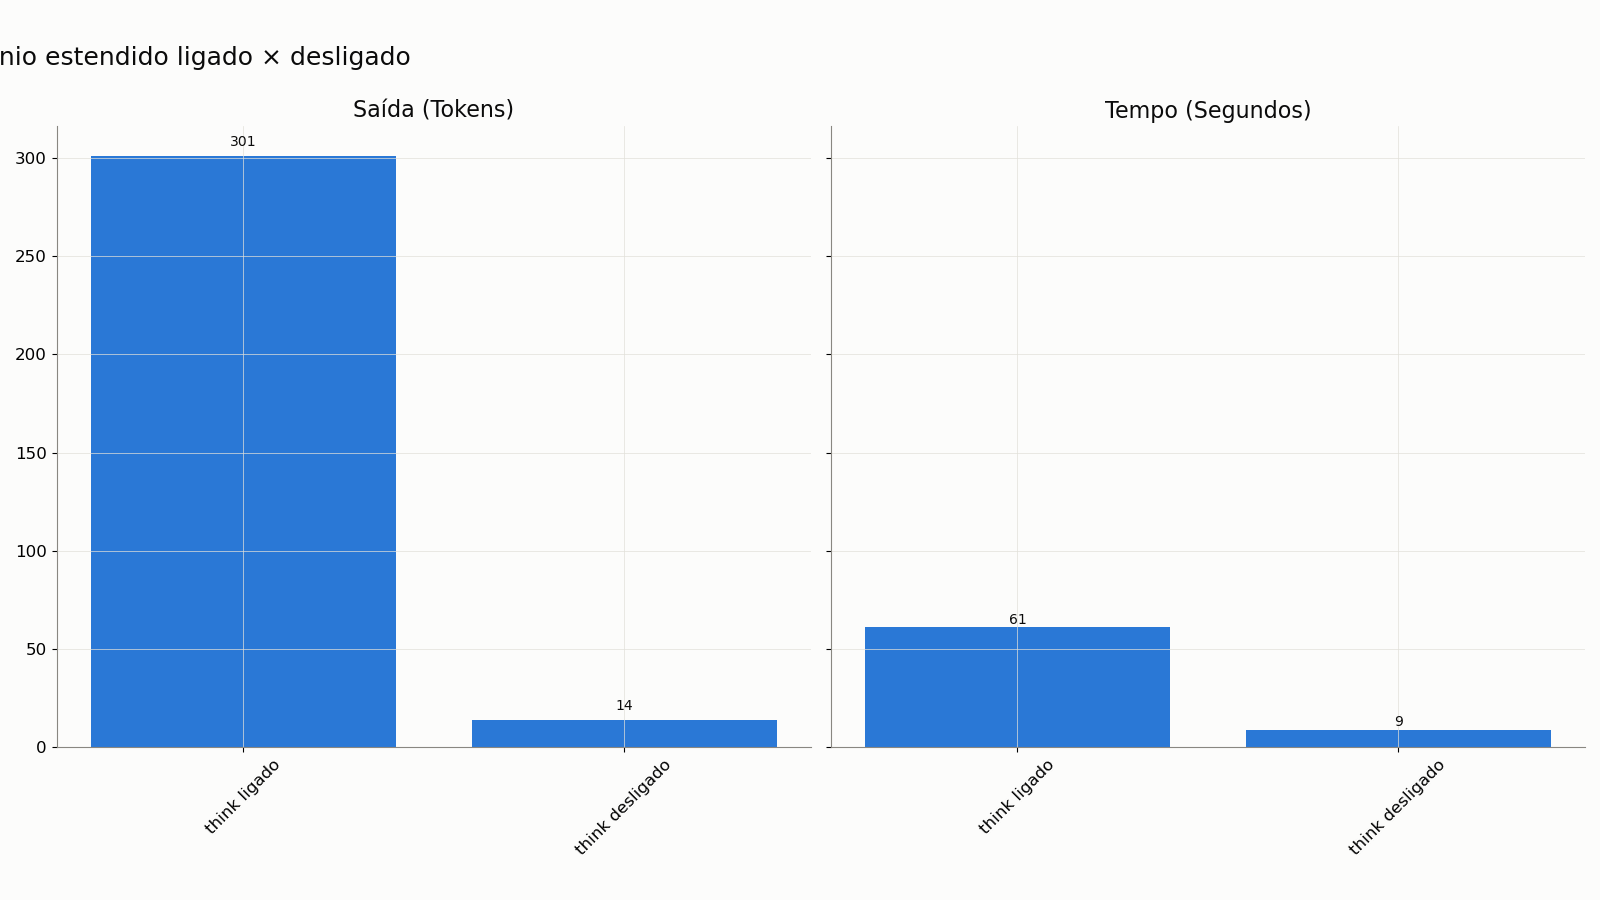
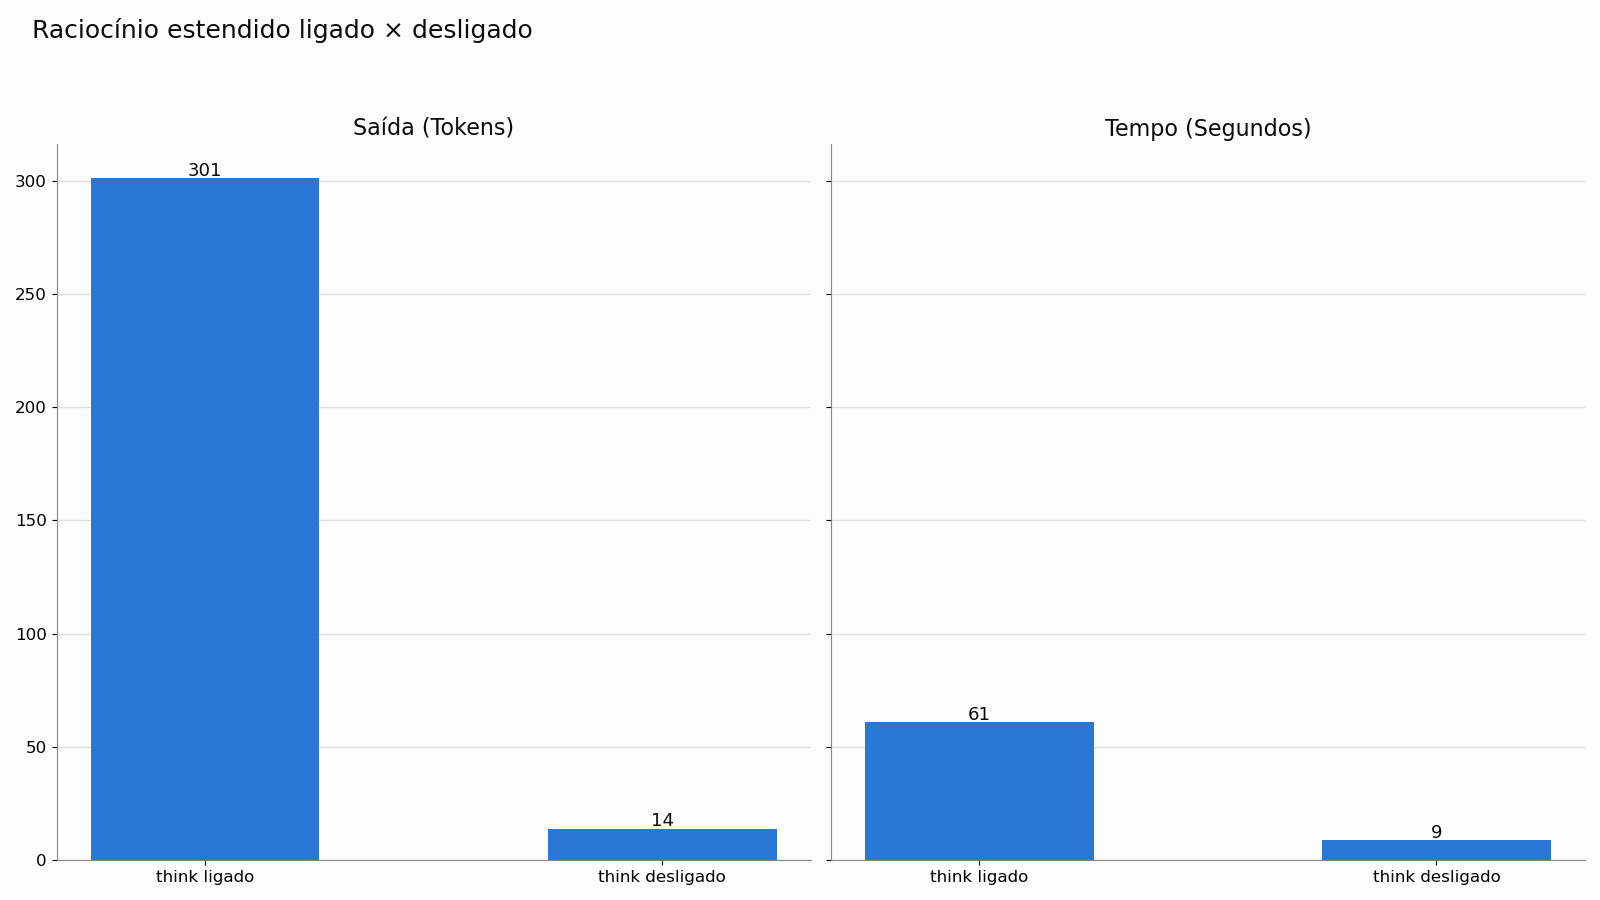
docs(study): polished charts (Alice E-02), lessons LI-009/010, study data update

diff --git a/docs/estudo/graficos.py b/docs/estudo/graficos.py
@@ -17,7 +17,7 @@ plt.rcParams.update({
     "axes.grid": True,
     "grid.color": "#e1e0d9",
     "grid.linestyle": "-",
-    "grid.linewidth": 0.5,
+    "grid.linewidth": 1,
     "text.color": "#0b0b0b",
     "axes.titlesize": 16,
     "axes.labelsize": 14,
@@ -30,8 +30,8 @@ def format_thousands(x, pos):
     return f"{x:,.0f}".replace(",", ".")
 
 def save_plot(filename):
-    plt.tight_layout()
-    plt.savefig(OUTPUT_DIR / filename)
+    plt.tight_layout(rect=[0, 0, 1, 0.93])
+    plt.savefig(OUTPUT_DIR / filename, bbox_inches="tight", pad_inches=0.3)
     plt.close()
 
 def main():
@@ -41,121 +41,141 @@ def main():
     # 01-toy-antes-depois.png
     plt.figure()
     ax = plt.gca()
+    ax.set_axisbelow(True)
     toys = data["toy"]
     y_pos = range(len(toys))
-    
+
     # Horizontal stacked bars
     # entrada (blue) + saida (orange)
     for i, toy in enumerate(toys):
         entrada = toy["entrada"]
         saida = toy["saida"]
         total = entrada + saida
-        
-        ax.barh(i, entrada, color="#2a78d6", label="Entrada" if i == 0 else "", edgecolor="white", linewidth=2)
-        ax.barh(i, saida, left=entrada, color="#eb6834", label="Saída" if i == 0 else "", edgecolor="white", linewidth=2)
-        
+
+        ax.barh(i, entrada, height=0.5, color="#2a78d6", label="Entrada" if i == 0 else "", edgecolor="white", linewidth=2)
+        ax.barh(i, saida, left=entrada, height=0.5, color="#eb6834", label="Saída" if i == 0 else "", edgecolor="white", linewidth=2)
+
         # Total label at the end
-        ax.text(total + 5000, i, f"{total:,.0f}".replace(",", "."), va="center", fontweight="bold")
+        max_val = max([t["entrada"] + t["saida"] for t in toys])
+        ax.text(total + (0.01 * max_val), i, f"{total:,.0f}".replace(",", "."), va="center", fontweight="bold", fontsize=13, color="#0b0b0b")
 
     ax.set_yticks(y_pos)
     ax.set_yticklabels([t["rotulo"] for t in toys])
     ax.invert_yaxis()  # Top to bottom
     ax.set_title("Mesma tarefa, três versões: tokens da Alice", loc="left")
-    ax.legend(loc="lower right")
+    ax.legend(loc="lower right", fontsize=13, frameon=False)
     ax.xaxis.set_major_formatter(FuncFormatter(format_thousands))
+    ax.set_xlim(0, 1.3 * max_val)
     ax.spines["top"].set_visible(False)
     ax.spines["right"].set_visible(False)
+    # Gridlines only along the value axis (x)
+    ax.xaxis.grid(True)
+    ax.yaxis.grid(False)
     save_plot("01-toy-antes-depois.png")
 
     # 02-think.png
     fig, (ax1, ax2) = plt.subplots(1, 2, figsize=(16, 9), dpi=100, sharey=True)
     fig.patch.set_facecolor("#fcfcfb")
-    
+
     think_data = data["think"]
     modos = [t["modo"] for t in think_data]
     saidas = [t["saida"] for t in think_data]
     segundos = [t["segundos"] for t in think_data]
-    
+
     x_pos = range(len(modos))
-    
+
     # Left: saida tokens
-    ax1.bar(x_pos, saidas, color="#2a78d6")
+    ax1.bar(x_pos, saidas, color="#2a78d6", width=0.5)
     ax1.set_title("Saída (Tokens)")
     ax1.set_xticks(x_pos)
-    ax1.set_xticklabels(modos, rotation=45)
+    ax1.set_xticklabels(modos, rotation=0)
     for i, v in enumerate(saidas):
-        ax1.text(i, v + 5, f"{v}", ha="center")
-        
+        ax1.text(i, v + 1, f"{v}", ha="center", fontsize=13, color="#0b0b0b")
+
     # Right: segundos
-    ax2.bar(x_pos, segundos, color="#2a78d6")
+    ax2.bar(x_pos, segundos, color="#2a78d6", width=0.5)
     ax2.set_title("Tempo (Segundos)")
     ax2.set_xticks(x_pos)
-    ax2.set_xticklabels(modos, rotation=45)
+    ax2.set_xticklabels(modos, rotation=0)
     for i, v in enumerate(segundos):
-        ax2.text(i, v + 2, f"{v}", ha="center")
+        ax2.text(i, v + 1, f"{v}", ha="center", fontsize=13, color="#0b0b0b")
 
     for ax in [ax1, ax2]:
+        ax.set_axisbelow(True)
         ax.set_facecolor("#fcfcfb")
         ax.spines["top"].set_visible(False)
         ax.spines["right"].set_visible(False)
-    
-    fig.suptitle("Raciocínio estendido ligado × desligado", fontsize=18, x=0.1, y=0.95)
-    plt.tight_layout(rect=[0, 0.03, 1, 0.95])
+        ax.xaxis.grid(False)
+        ax.yaxis.grid(True)
+
+    fig.suptitle("Raciocínio estendido ligado × desligado", fontsize=18, x=0.02, ha="left")
+    plt.tight_layout(rect=[0, 0, 1, 0.93])
     plt.savefig(OUTPUT_DIR / "02-think.png")
     plt.close()
 
     # 03-tarefas.png
     plt.figure()
     ax = plt.gca()
+    ax.set_axisbelow(True)
     tarefas = data["tarefas"]
     y_pos = range(len(tarefas))
-    
+
+    max_entrada = max([t["entrada"] for t in tarefas])
+
     for i, t in enumerate(tarefas):
         entrada = t["entrada"]
         status = t["status"]
         tentativas = t["tentativas"]
-        
-        ax.barh(i, entrada, color="#2a78d6")
-        
+
+        ax.barh(i, entrada, height=0.5, color="#2a78d6")
+
         if status == "done":
-            label = f" · {tentativas} · ✓"
+            label = f" · {tentativas} {'tentativa' if tentativas == 1 else 'tentativas'} · ✓"
         else:
-            label = f" · ✗ (falso positivo)"
-            
-        ax.text(entrada + 5000, i, f"{entrada:,.0f}".replace(",", ".") + label, va="center")
+            label = f" · ✗ falso positivo"
+
+        ax.text(entrada + (0.01 * max_entrada), i, f"{entrada:,.0f}".replace(",", ".") + label, va="center", fontsize=13, color="#0b0b0b")
 
     ax.set_yticks(y_pos)
     ax.set_yticklabels([f"{t['id']} · {t['o_que']}" for t in tarefas])
     ax.invert_yaxis()
     ax.set_title("Tokens de entrada por tarefa (cresce com o histórico)", loc="left")
     ax.xaxis.set_major_formatter(FuncFormatter(format_thousands))
+    ax.set_xlim(0, 1.3 * max_entrada)
     ax.spines["top"].set_visible(False)
     ax.spines["right"].set_visible(False)
+    ax.xaxis.grid(True)
+    ax.yaxis.grid(False)
     save_plot("03-tarefas.png")
 
     # 04-divisao-tokens.png
     plt.figure()
     ax = plt.gca()
+    ax.set_axisbelow(True)
     div = data["divisao_v1"]
-    
+
     labels = ['Claude (estimado)', 'Alice · entrada', 'Alice · saída']
     values = [div["claude_estimado"], div["alice_entrada"], div["alice_saida"]]
     colors = ["#eb6834", "#2a78d6", "#2a78d6"]
-    
+
     y_pos = range(len(labels))
-    ax.barh(y_pos, values, color=colors)
-    
+    ax.barh(y_pos, values, height=0.5, color=colors)
+
     ax.set_yticks(y_pos)
     ax.set_yticklabels(labels)
     ax.invert_yaxis()
-    
+
+    max_v = max(values)
     for i, v in enumerate(values):
-        ax.text(v + 5000, i, f"{v:,.0f}".replace(",", "."), va="center")
-        
+        ax.text(v + (0.01 * max_v), i, f"{v:,.0f}".replace(",", "."), va="center", fontsize=13, color="#0b0b0b")
+
+    ax.set_xlim(0, 1.3 * max_v)
     ax.set_title("Quem gastou os tokens na V1", loc="left")
     ax.xaxis.set_major_formatter(FuncFormatter(format_thousands))
     ax.spines["top"].set_visible(False)
     ax.spines["right"].set_visible(False)
+    ax.xaxis.grid(True)
+    ax.yaxis.grid(False)
     save_plot("04-divisao-tokens.png")
 
 if __name__ == "__main__":

diff --git a/docs/estudo/artigo-parte-1.md b/docs/estudo/artigo-parte-1.md
@@ -126,6 +126,8 @@ Outros números:
 - **A Alice corrompeu uma regex, e o teste não pegou.** O padrão errado passava nos casos que escrevi por coincidência. Lição: teste de regex precisa de casos que separem o padrão certo de um parecido.
 - **A Alice entregou uma detecção de ID frouxa demais:** qualquer célula de tabela com hífen virava "regra", inclusive datas. Os testes passavam, e só a revisão com dados reais mostrou o problema.
 - **Eu (o Claude, no caso) quebrei o harness na integração:** apaguei sem querer um filtro. O teste de ponta a ponta pegou na hora.
+- **Eu atrapalhei a Alice.** Enquanto ela ajustava os gráficos deste artigo, escrevi arquivos na mesma pasta. A verificação acusou "arquivo fora do escopo" e reprovou a tarefa. Era um risco que a auditoria já apontava (dois agentes na mesma cópia do repositório); agora tem evidência. Próximo passo: uma cópia isolada por tarefa.
+- **O modelo local monta mal a chamada de ferramenta quando o argumento é código grande:** pedaços do código "vazavam" para o caminho do arquivo. O harness agora limpa o caminho e, quando falta argumento, responde com a assinatura correta. Na repetição, a tarefa passou de primeira em 45 segundos.
 - **O primeiro rascunho deste artigo**, escrito pela Alice, saiu em 22 segundos mas tinha 4 erros factuais e um "contra" que nunca medimos. Virou esqueleto, e a versão final foi reescrita. Texto público ainda precisa de revisão forte.
 
 Em resumo: 5 entregas da Alice, 3 aceitas como vieram ou com ajuste mínimo, 2 com correção do Claude. Todos os erros foram pegos por teste, verificação ou revisão antes de chegar ao repositório.

diff --git a/docs/memoria/licoes.md b/docs/memoria/licoes.md
@@ -10,3 +10,5 @@
 | LI-006 | 2026-11-14 | `think: false` cortou a saída da Alice de ~35 mil para ~2,3 mil tokens na mesma tarefa (TOY-T01: 48 mil → 33 mil no total, 21 s), sem perder qualidade. Padrão agora é `false`. | TOY-T01 v2 |
 | LI-007 | 2026-11-14 | O custo de entrada da Alice cresce com o histórico: cada chamada reenvia tudo (H-01: 23 chamadas = 762 mil tokens de entrada). Cartão pequeno e regra injetada reduzem chamadas; compactação mais cedo é item da V2. | H-01, H-02 |
 | LI-008 | 2026-11-14 | Teste de regex precisa de casos que distinguem o padrão certo de um parecido: a Alice corrompeu a regex do TODO e o teste passou por coincidência. | H-02 |
+| LI-009 | 2026-11-14 | Não editar a cópia do repositório enquanto a Alice roda: a verificação conta qualquer arquivo novo como "fora do escopo" (E-02 reprovada por arquivos do Claude). Até existir cópia isolada por tarefa, esperar o fim da execução. | E-02 |
+| LI-010 | 2026-11-14 | Com argumento de código grande, o modelo local monta mal a chamada de ferramenta (pedaço do código vaza para `path`, `old` some). O harness limpa o caminho e devolve a assinatura; mudança grande → `write_file`. | E-02 |

diff --git a/docs/estudo/fatos.md b/docs/estudo/fatos.md
@@ -44,6 +44,10 @@
 - AGENTS.md: 2.422 → 1.154 palavras. 129 IDs de regra indexados. 27 testes do harness. Porteiro: 8 comandos testados, 3 permitidos, 5 negados.
 - Erros encontrados: 2 falsos positivos do harness, 1 erro de integração do Claude, 1 regex corrompida pela Alice. Todos pegos por teste/verificação ou revisão.
 
+## Produção deste estudo
+- Gráficos: script escrito pela Alice (E-01, 74 s, 1ª tentativa). Ajustes (E-02): 1ª execução reprovada porque o Claude escreveu arquivos na mesma pasta durante a execução e porque o modelo montou mal chamadas de ferramenta com código grande; harness corrigido; 2ª execução aprovada em 45 s.
+- Rascunho do artigo: Alice em 22 s (1.217 palavras, 4 erros factuais); versão final reescrita pelo Claude.
+
 ## Ainda NÃO testado (conclusões pendentes)
 - Geração de código TypeScript do produto (E1: motor financeiro; depois API, banco, frontend).
 - Modo test-author (Alice escrevendo testes), pre-review, fila de tarefas, CI com todas as travas (lint, tipos, fronteiras, mutação).
